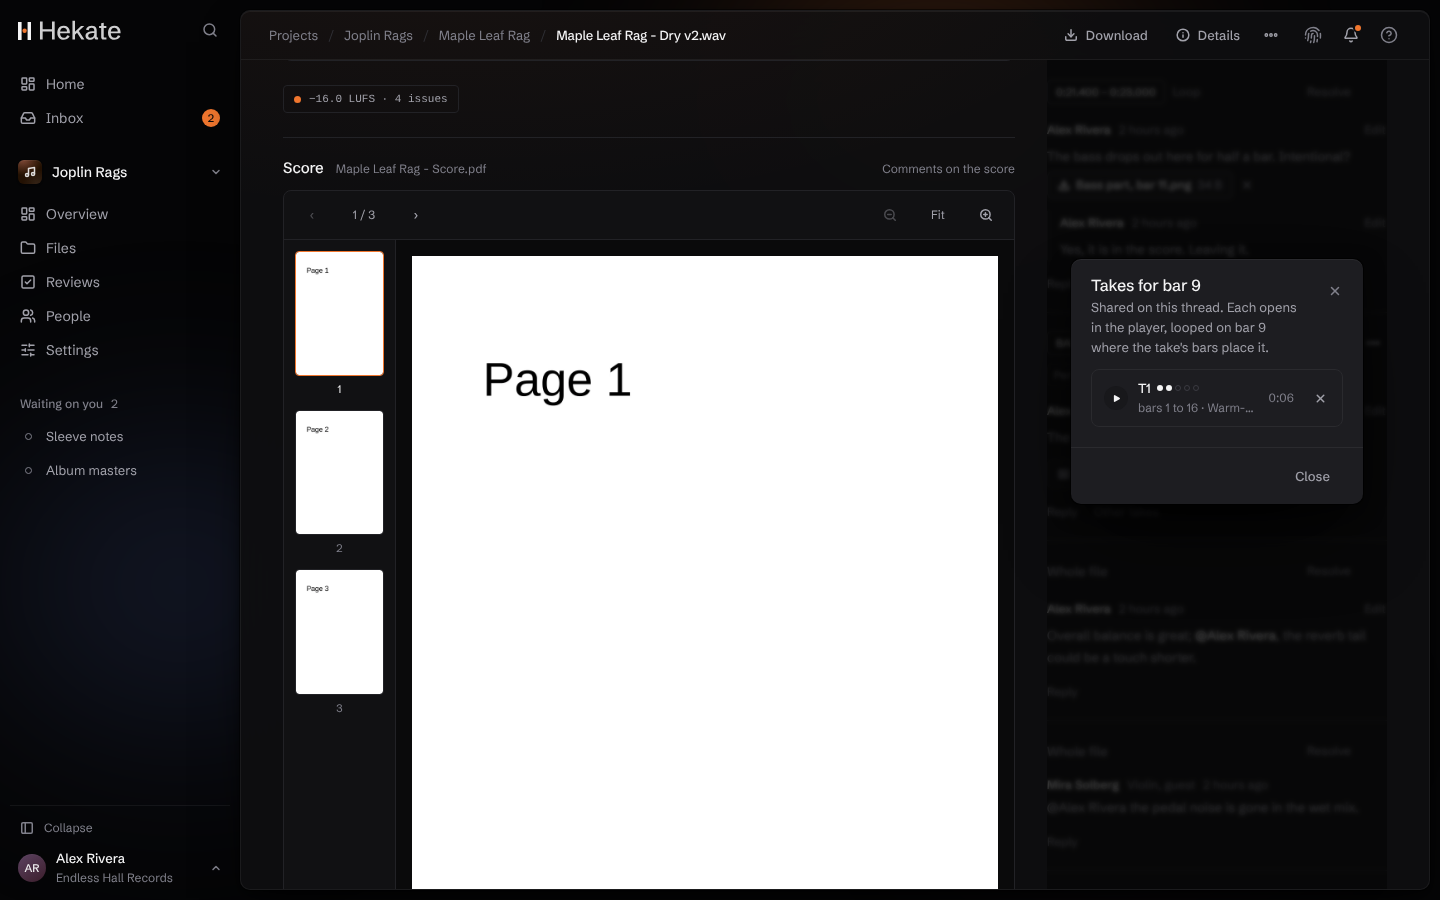
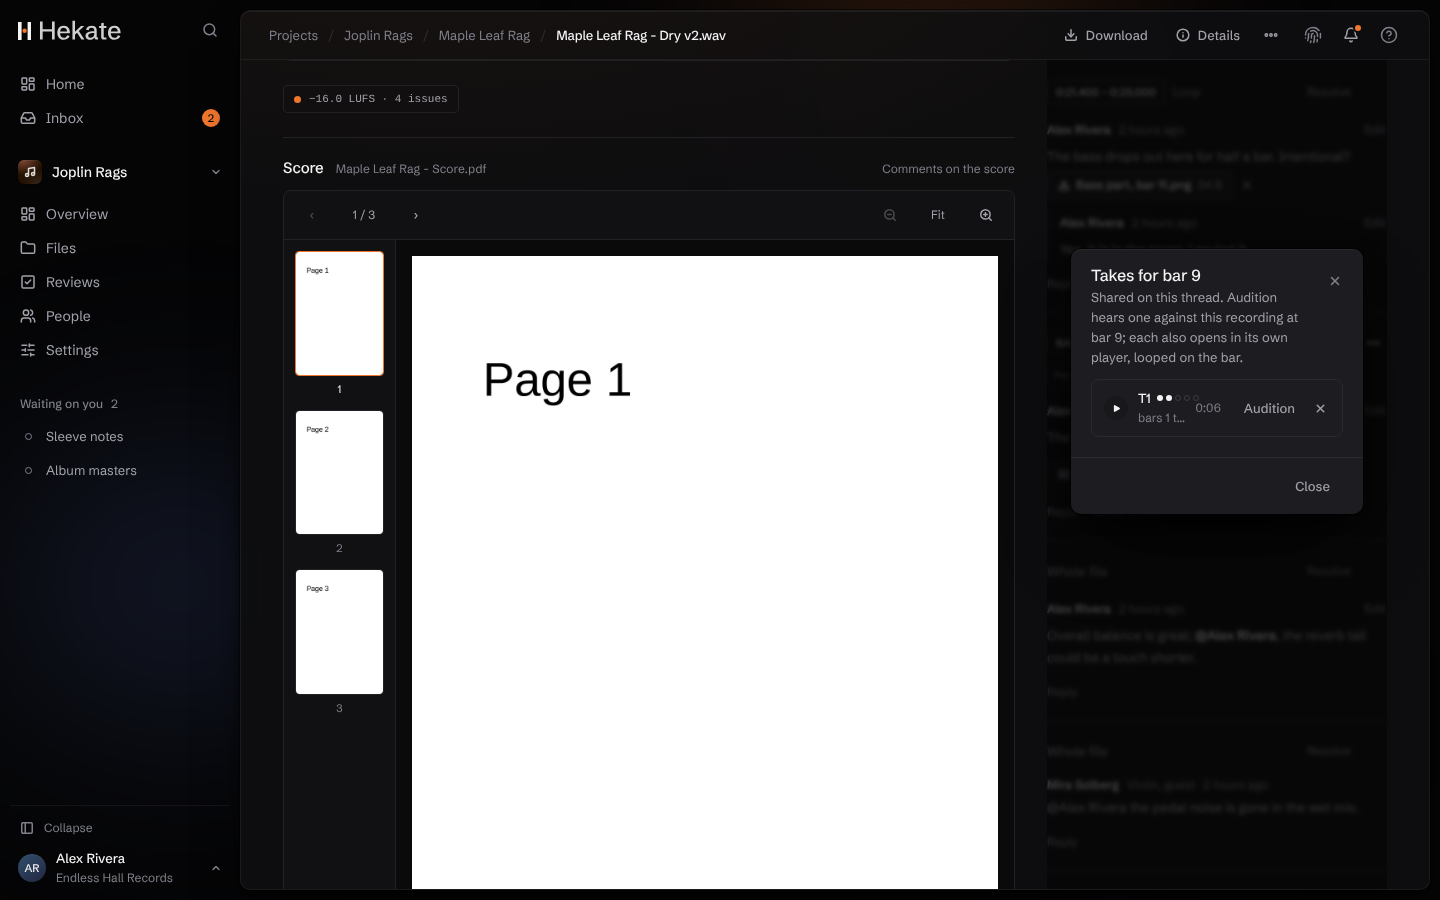
feat(web): audition the takes shared on a thread (#318)
A bar thread's attached takes offer the same Audition as its Other takes: the take joins the recording's comparison lined up with the moment the thread was written, looped on the bar and level-matched, and the dialog closes to show it (decision 113).

Refs #133, #46

diff --git a/apps/web/src/components/takes.tsx b/apps/web/src/components/takes.tsx
@@ -1012,12 +1012,15 @@ export function SharedTakes({
   bar,
   guest,
   onUnshare,
+  onAudition,
 }: {
   takes: SharedTake[];
   bar?: number;
   /** A guest reviewer hears them in their own player. */
   guest: boolean;
   onUnshare?: (takeId: string) => void;
+  /** Hear one at the thread's bar against the recording (#46), as in Other takes. */
+  onAudition?: (take: { fileId: string; number: number; span: [number, number] }) => void;
 }) {
   const [open, setOpen] = useState(false);
   return (
@@ -1036,7 +1039,9 @@ export function SharedTakes({
           description={
             bar === undefined
               ? "Shared on this thread. Each opens in the player."
-              : `Shared on this thread. Each opens in the player, looped on bar ${bar} where the take's bars place it.`
+              : onAudition
+                ? `Shared on this thread. Audition hears one against this recording at bar ${bar}; each also opens in its own player, looped on the bar.`
+                : `Shared on this thread. Each opens in the player, looped on bar ${bar} where the take's bars place it.`
           }
           onClose={() => setOpen(false)}
           footer={
@@ -1068,6 +1073,22 @@ export function SharedTakes({
                     <span className="flex min-w-0 flex-1 items-center gap-2.5 px-3 py-2">
                       <OtherTake take={t} />
                     </span>
+                  )}
+                  {onAudition && span && t.file?.streamStatus === "ready" && (
+                    <Button
+                      variant="ghost"
+                      size="sm"
+                      className="shrink-0"
+                      aria-label={`Audition take ${t.number} at bar ${bar}`}
+                      title="Heard against this recording at the bar, looped and level-matched; the number keys flip between them"
+                      onClick={() => {
+                        // Closed, so the recording and the comparison are in view to hear it.
+                        setOpen(false);
+                        onAudition({ fileId: t.file?.id ?? "", number: t.number, span });
+                      }}
+                    >
+                      Audition
+                    </Button>
                   )}
                   {onUnshare && (
                     <Button

diff --git a/apps/web/src/components/comments.tsx b/apps/web/src/components/comments.tsx
@@ -681,6 +681,19 @@ function ThreadView({
   const [asking, setAsking] = useState<"defer" | "assign" | null>(null);
   const { comment, replies } = thread;
   const anchor = comment.anchor;
+  // A take heard against this recording from the moment a bar thread was written (#46): the
+  // take's bar lined up with it, looped, level-matched, one key flipping between them.
+  const heardAt = anchor?.kind === "bar" ? anchor.at : undefined;
+  const audition =
+    onBeforeAfter && heardAt !== undefined
+      ? (take: { fileId: string; number: number; span: [number, number] }) =>
+          onBeforeAfter({
+            fileId: take.fileId,
+            label: `T${take.number}`,
+            shift: take.span[0] - heardAt,
+            loop: { start: heardAt, end: heardAt + (take.span[1] - take.span[0]) },
+          })
+      : undefined;
   const carry = comment.carry;
   /** This version's number, for "Fixed in V3". */
   const here = comment.history?.hops.find((h) => h.fileId === fileId)?.versionNumber;
@@ -961,6 +974,7 @@ function ThreadView({
           takes={comment.takes}
           bar={anchor?.kind === "bar" ? anchor.from.bar : undefined}
           guest={guest}
+          onAudition={audition}
           onUnshare={
             canTriage && takesOf
               ? (takeId) => mutations.unshareTake.mutate({ commentId: comment.id, takeId })
@@ -991,19 +1005,7 @@ function ThreadView({
           onClose={() => setTakesOpen(false)}
           // Heard against this recording from the moment the thread was written (#46): the
           // take's bar lined up with it, looped, level-matched, one key flipping between them.
-          onAudition={
-            onBeforeAfter && anchor.at !== undefined
-              ? (take) => {
-                  const at = anchor.at ?? 0;
-                  onBeforeAfter({
-                    fileId: take.fileId,
-                    label: `T${take.number}`,
-                    shift: take.span[0] - at,
-                    loop: { start: at, end: at + (take.span[1] - take.span[0]) },
-                  });
-                }
-              : undefined
-          }
+          onAudition={audition}
           share={
             canTriage
               ? {

diff --git a/apps/e2e/tests/screens.spec.ts b/apps/e2e/tests/screens.spec.ts
@@ -1090,8 +1090,13 @@ test("file-comment-shared-takes", async ({ page }) => {
   const dialog = page.getByRole("dialog", { name: "Takes for bar 9" });
   await expect(dialog.getByRole("listitem")).toHaveCount(1);
   await expect(dialog).toContainText("Warm-up run");
+  await expect(dialog.getByRole("button", { name: /^Audition take \d+ at bar 9$/ })).toBeVisible();
   await saveScreen(page, "file-comment-shared-takes");
   await checkScreen(page);
+  // Auditioned from here as from Other takes (#46): the dialog closes on the comparison.
+  await dialog.getByRole("button", { name: /^Audition take/ }).click();
+  await expect(dialog).toBeHidden();
+  await expect(page.getByRole("region", { name: "Compare" })).toContainText("T1");
 });
 
 // Attaching files to a comment (#133): chosen, shown before sending, and on the thread.

diff --git a/apps/prototype/docs/inventory.md b/apps/prototype/docs/inventory.md
@@ -123,7 +123,7 @@ Each screen lists its states. Every screen is designed at desktop (1440) and pho
 | Take import | Drop every session file; the proposed tree (sessions, takes by take number and timecode, one file per microphone, the summed mix, assignment to tracks by matching audio) with confidence, bulk fixes and undo; file-name patterns. | Unplaced files; a grouping to fix; progress for thousands of files. | #45 |
 | Session | The tracks it recorded, and their takes logged that day: number, rating, starred, false starts, notes, timecode, coverage (page and bar range), microphones, used in which version. A take belongs to its track, not the session. | Empty session; a take with no coverage. | #21 |
 | Take | Play a take with its microphones (solo, mute, summed mix), loop, rating and notes, coverage, its place in the score; quick-compare takes; share to a comment. | Processing. | #21 #44 |
-| Other options for bar 72 | From a bar comment ("Other takes"): every take covering the thread's first bar, starred first, then by rating, with its bars and notes, each opening in the player looped on that bar; a link to all the track's takes; which the version's edit decision list uses there; Audition, hearing a take at the bar against the recording from the thread's moment, looped and level-matched, 1 and 2 flipping between them; sharing chosen takes to the thread. Takes shared on a bar thread open looped on its bar too. | None cover it; a take without bars or length (opens from its start, no Audition); a thread without a moment (no Audition). | #46 |
+| Other options for bar 72 | From a bar comment ("Other takes"): every take covering the thread's first bar, starred first, then by rating, with its bars and notes, each opening in the player looped on that bar; a link to all the track's takes; which the version's edit decision list uses there; Audition, hearing a take at the bar against the recording from the thread's moment, looped and level-matched, 1 and 2 flipping between them; sharing chosen takes to the thread. Takes shared on a bar thread open looped on its bar too, and are auditioned from the thread's attached takes the same way. | None cover it; a take without bars or length (opens from its start, no Audition); a thread without a moment (no Audition). | #46 |
 | Take coverage | A track's takes (its Takes view): which cover which bars, as a grid across the track; gaps; a bar to find the takes covering it; all or the best; add takes by dropping or choosing files (each a scratch mix for now); edit a take's label, rating, star, notes, page, bars and in and out points. Bars are optional: a take without them says so. Edit decisions: the latest version's edit decision list (CMX 3600), each edit's place in the version, the take it comes from, where in the take and which bars, and what the list names that is no take; the takes it uses marked "in V3" with their bars under the lane; the timecode rate where the list does not say it. A version's list is imported, replaced or taken off from its menu. | No takes; no coverage entered; a take without bars; no edit decision list; an edit from no take of this track; a place in the take not known. | #21 #46 #56 |
 | Edit decisions | Which takes a version uses for which bars, imported from an EDL (CMX 3600, Pyramix, Sequoia), matched to takes; a lane under a version's waveform naming each stretch's take and bars, the edit playing lit, a click going to the start of an edit; the upload rule reading the list a new version brings: refused when it holds no edits, or ends past the version's end (most often another version's list). | No EDL (no lane); an unmatched event (named as the list names it); a list refused. | #56 |
 

diff --git a/docs/decisions.md b/docs/decisions.md
@@ -465,4 +465,4 @@ The page of a track and of a review has a *Follow* button in its header (#110), 
 
 ## 113. A take is auditioned at the bar against the recording
 
-From a bar thread's *Other takes* (#46), *Audition* brings a take into the recording's comparison (#137) as its second source, heard first: the take is lined up so that the bar sits where the thread was written (the moment a bar comment keeps), the passage is looped for the bar's length, the two are level-matched by their integrated loudness, and 1 and 2 flip between them at the same place, as the prototype shows. Where the bar lies in a take is worked out the way an edit decision list's bars are read (decision 110's `barsUsed`): its bars spread evenly over its in and out points, or the whole file (`barSpan`, in `packages/shared`). A take without bars or a known length cannot be placed, and a bar thread without a moment (one written on the score's own page) has nothing to line it up with, so neither offers *Audition*. Every take in the list, and every take shared on a bar thread, also opens in its own player looped on that bar. The take is a source like any other in the comparison: it plays through the protected path, only for those who may hear it.
+From a bar thread's *Other takes* (#46), *Audition* brings a take into the recording's comparison (#137) as its second source, heard first: the take is lined up so that the bar sits where the thread was written (the moment a bar comment keeps), the passage is looped for the bar's length, the two are level-matched by their integrated loudness, and 1 and 2 flip between them at the same place, as the prototype shows. Where the bar lies in a take is worked out the way an edit decision list's bars are read (decision 110's `barsUsed`): its bars spread evenly over its in and out points, or the whole file (`barSpan`, in `packages/shared`). A take without bars or a known length cannot be placed, and a bar thread without a moment (one written on the score's own page) has nothing to line it up with, so neither offers *Audition*. The takes shared on a bar thread offer the same *Audition* in their list, which closes to show the comparison (the prototype's attached-takes dialog plays them inside itself; the comparison under the player does the same job without a second player). Every take in the list, and every take shared on a bar thread, also opens in its own player looped on that bar. The take is a source like any other in the comparison: it plays through the protected path, only for those who may hear it.
